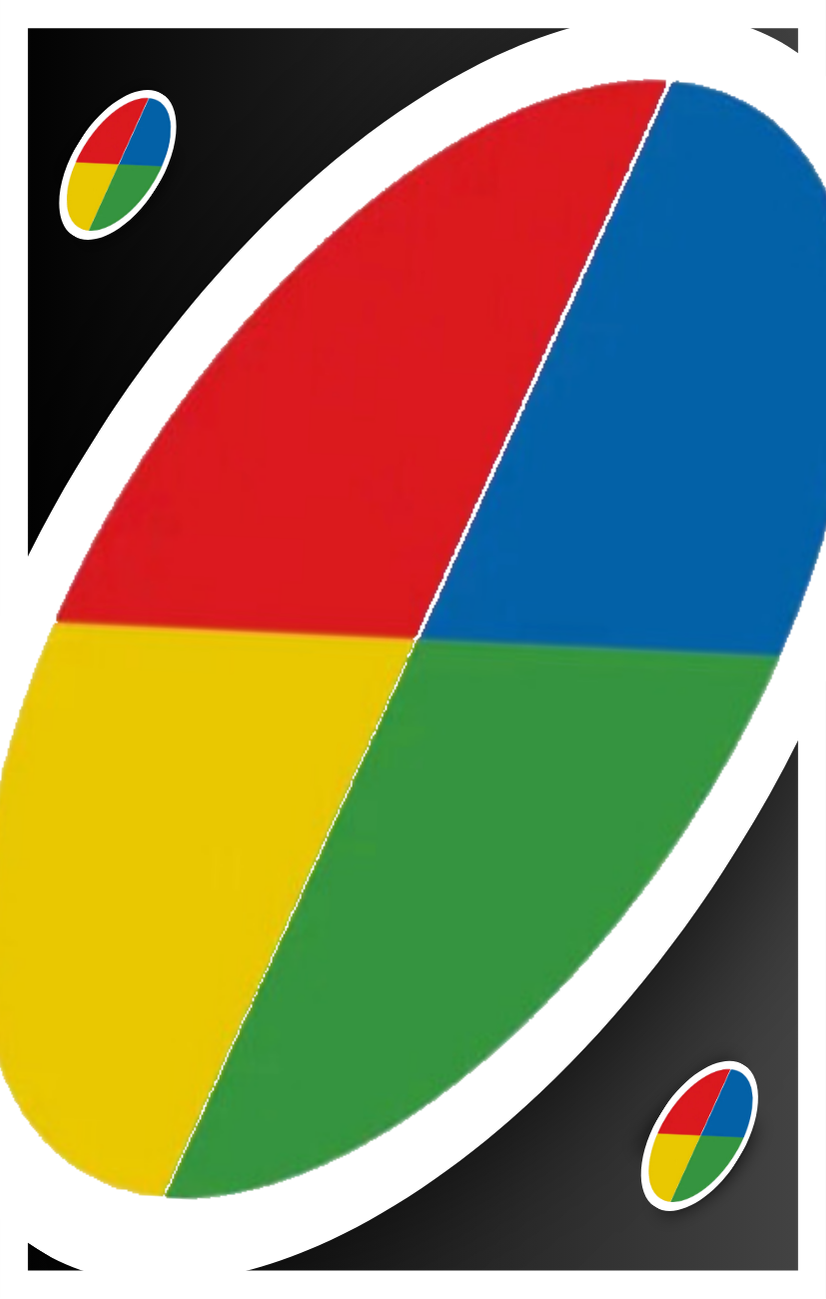
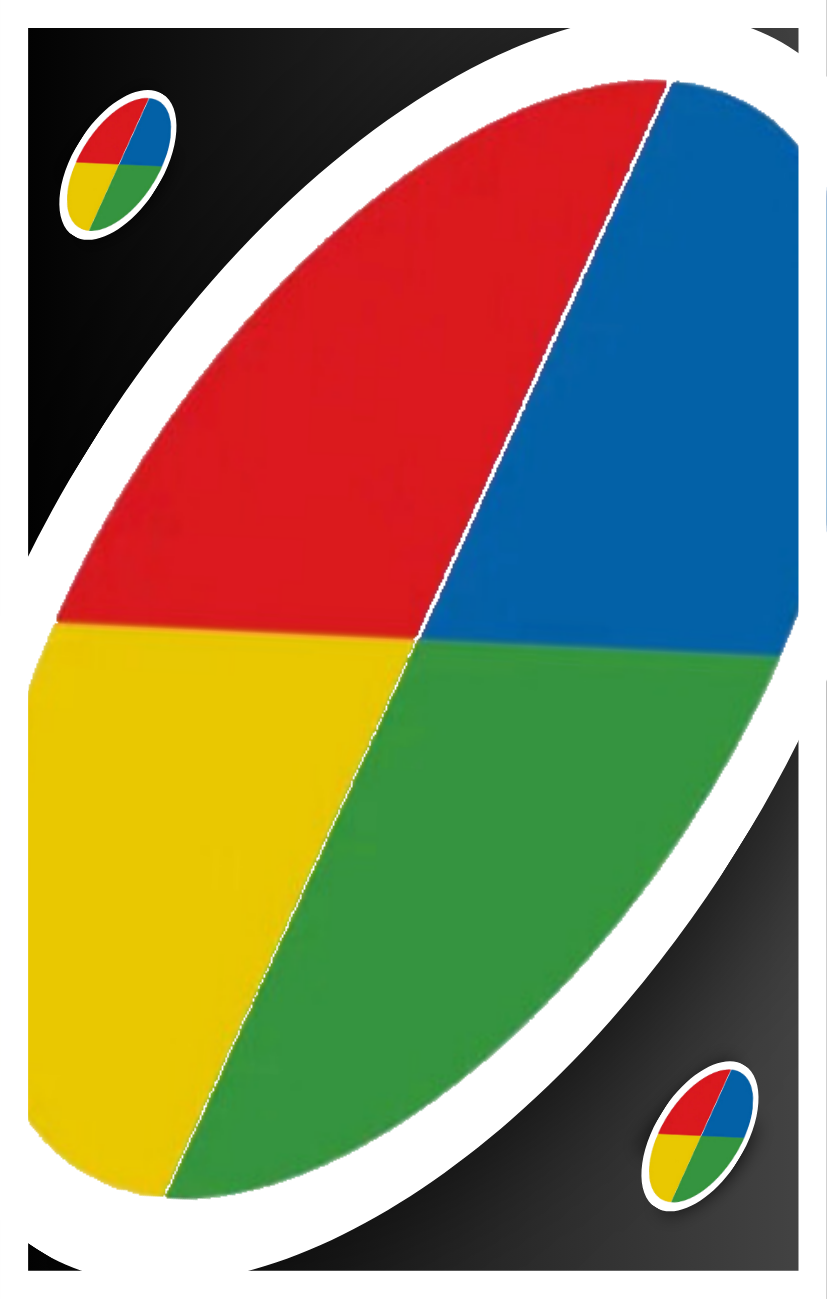
Uno: kartu Wild +8 (2) & Spill (8), + cover meja
- Wild +8: keluarga plus (bisa stack sama +2/+4), korban tarik +8
- Spill (2/warna, 8 total): semua kartu keliatan 10 detik; server re-broadcast pas kelar
- Deck jadi 118; wire gambar wild8, spill, cover meja (meja.png), wild normal revisi
- Kartu tangan urut: spill masuk grup aksi, wild8 grup wild

Teruji: engine rules/fullgame (118 kartu) + efek wild8/spill.

diff --git a/src/games/uno.js b/src/games/uno.js
@@ -28,7 +28,8 @@ function buildDeck() {
       deck.push({ kind: "num", color, value: v });
       deck.push({ kind: "num", color, value: v });
     }
-    for (const kind of ["skip", "reverse", "draw2"]) {
+    // 2 tiap: skip, reverse, +2, dan SPILL (kartu spill: 2/warna = 8 total)
+    for (const kind of ["skip", "reverse", "draw2", "spill"]) {
       deck.push({ kind, color });
       deck.push({ kind, color });
     }
@@ -37,7 +38,8 @@ function buildDeck() {
     deck.push({ kind: "wild" });
     deck.push({ kind: "wild4" });
   }
-  return deck; // 108
+  for (let i = 0; i < 2; i++) deck.push({ kind: "wild8" }); // wild +8 (2 biji)
+  return deck; // 118
 }
 
 function shuffle(arr) {
@@ -49,7 +51,8 @@ function shuffle(arr) {
   return a;
 }
 
-function isPlus(card) { return card.kind === "draw2" || card.kind === "wild4"; }
+function isPlus(card) { return card.kind === "draw2" || card.kind === "wild4" || card.kind === "wild8"; }
+function isWildKind(card) { return card.kind === "wild" || card.kind === "wild4" || card.kind === "wild8"; }
 
 // "ikon" kartu — buat nentuin kartu mana yang boleh di-stack bareng.
 //  angka  → "num:<value>"
@@ -65,7 +68,7 @@ function cardGroup(card) {
 
 // Boleh nggak `card` jadi kartu PALING BAWAH di atas `top` (warna aktif `currentColor`)?
 function matches(card, top, currentColor) {
-  if (card.kind === "wild" || card.kind === "wild4") return true;
+  if (isWildKind(card)) return true;
   if (card.color === currentColor) return true;
   if (card.kind === "num" && top.kind === "num" && card.value === top.value) return true;
   if (card.kind !== "num" && card.kind === top.kind) return true;
@@ -117,8 +120,10 @@ function describe(card) {
   if (card.kind === "skip") return `skip ${c}`.trim();
   if (card.kind === "reverse") return `reverse ${c}`.trim();
   if (card.kind === "draw2") return `+2 ${c}`.trim();
+  if (card.kind === "spill") return `spill ${c}`.trim();
   if (card.kind === "wild") return `wild ${c}`.trim();
   if (card.kind === "wild4") return `+4 ${c}`.trim();
+  if (card.kind === "wild8") return `+8 ${c}`.trim();
   return "kartu";
 }
 
@@ -147,6 +152,7 @@ module.exports = {
       direction: 1,
       drawnThisTurn: false,
       pendingDraw: 0, // total tarik yang lagi "gantung" dari tumpukan plus
+      spillUntil: 0,  // timestamp: sampai kapan semua kartu ke-spill (spill card)
       winner: null,   // juara pertama (kartu habis duluan)
       finished: [],   // urutan pemain yang udah habis kartunya (ranking juara)
       over: false,    // game beneran selesai (tersisa ≤1 pemain aktif)
@@ -176,7 +182,7 @@ module.exports = {
       if (cards.some((c) => !c)) return false;
       if (!cards.every(isPlus)) return false; // wajib plus semua
       const topCard = cards[cards.length - 1];
-      if (topCard.kind === "wild4" && !COLORS.includes(move.chosenColor)) return false;
+      if ((topCard.kind === "wild4" || topCard.kind === "wild8") && !COLORS.includes(move.chosenColor)) return false;
       return true;
     }
 
@@ -196,7 +202,7 @@ module.exports = {
     if (!matches(cards[0], top, state.currentColor)) return false; // bawah harus sah
 
     const topCard = cards[cards.length - 1];
-    if ((topCard.kind === "wild" || topCard.kind === "wild4") && !COLORS.includes(move.chosenColor)) return false;
+    if (isWildKind(topCard) && !COLORS.includes(move.chosenColor)) return false;
     return true;
   },
 
@@ -239,7 +245,7 @@ module.exports = {
     const idxs = move.cardIndexes.slice();
     const cards = idxs.map((i) => s.hands[pid][i]); // referensi objek di tangan (clone)
     const topCard = cards[cards.length - 1];
-    if (topCard.kind === "wild" || topCard.kind === "wild4") topCard.color = move.chosenColor;
+    if (isWildKind(topCard)) topCard.color = move.chosenColor;
 
     // buang dari tangan (index besar dulu biar aman)
     for (const i of idxs.slice().sort((a, b) => b - a)) s.hands[pid].splice(i, 1);
@@ -284,7 +290,7 @@ module.exports = {
 
     // efek kartu (advance otomatis skip yang udah selesai)
     if (group === "plus") {
-      const add = cards.reduce((sum, c) => sum + (c.kind === "wild4" ? 4 : 2), 0);
+      const add = cards.reduce((sum, c) => sum + (c.kind === "wild8" ? 8 : c.kind === "wild4" ? 4 : 2), 0);
       s.pendingDraw += add;
       desc += ` — tarik gantung ${s.pendingDraw}`;
       advance(s, 1);
@@ -295,6 +301,10 @@ module.exports = {
       if (cards.length % 2 === 1) s.direction *= -1;
       advance(s, active.length === 2 && cards.length % 2 === 1 ? 2 : 1);
       desc += " — arah dibalik";
+    } else if (group === "act:spill") {
+      s.spillUntil = Date.now() + 10000; // semua kartu keliatan 10 detik
+      desc += " — 👀 SEMUA kartu ke-spill 10 detik!";
+      advance(s, 1);
     } else {
       advance(s, 1); // angka / wild biasa
     }
@@ -356,6 +366,7 @@ module.exports = {
     const hand = state.hands[playerId] || [];
     const meIsCurrent = state.order[state.currentTurn] === playerId;
     const pending = state.pendingDraw;
+    const spillActive = !!(state.spillUntil && Date.now() < state.spillUntil);
 
     // grup mana yang punya ≥1 kartu yang sah jadi kartu bawah → semua kartu grup itu "playable"
     const groupCanStart = {};
@@ -382,6 +393,8 @@ module.exports = {
           count: state.hands[id].length,
           isTurn: state.order[state.currentTurn] === id,
           done: state.finished.includes(id),
+          // pas spill aktif, kartu lawan keliatan (cuma data tampilan)
+          revealHand: spillActive ? state.hands[id].map((c) => ({ kind: c.kind, color: c.color, value: c.value })) : null,
         })),
       topCard: top,
       recentDiscard: state.discardPile.slice(-5), // 2–5 kartu terakhir buat tumpukan berantakan
@@ -393,6 +406,8 @@ module.exports = {
       pendingDraw: pending,
       mustRespondPlus: meIsCurrent && pending > 0, // giliranku & ada tumpukan plus
       youId: playerId,
+      spillActive,
+      spillUntil: spillActive ? state.spillUntil : null,
       lastEvent: state.lastEvent,
       unoNames: state.order
         .filter((id) => state.hands[id] && state.hands[id].length === 1)

diff --git a/public/client.js b/public/client.js
@@ -407,7 +407,7 @@ function renderLudo(view) {
 // ---------------------------------------------------------------------------
 // RENDER: UNO
 // ---------------------------------------------------------------------------
-const UNO_LABEL = { skip: "⦸", reverse: "⇄", draw2: "+2", wild: "★", wild4: "+4" };
+const UNO_LABEL = { skip: "⦸", reverse: "⇄", draw2: "+2", wild: "★", wild4: "+4", wild8: "+8", spill: "👀" };
 const COLOR_ID = { red: "Merah", yellow: "Kuning", green: "Hijau", blue: "Biru" };
 const DIR_COLOR = {
   red: "rgba(228,72,59,0.42)", yellow: "rgba(242,180,0,0.48)",
@@ -421,8 +421,10 @@ function cardRank(card) {
   if (card.kind === "skip") return [1, 0, color];
   if (card.kind === "reverse") return [1, 1, color];
   if (card.kind === "draw2") return [1, 2, color];
+  if (card.kind === "spill") return [1, 3, color];
   if (card.kind === "wild") return [2, 0, 0];
   if (card.kind === "wild4") return [2, 1, 0];
+  if (card.kind === "wild8") return [2, 2, 0];
   return [3, 0, 0];
 }
 function cmpCard(a, b) {
@@ -440,13 +442,15 @@ const COLOR_PREFIX = { red: "m", yellow: "k", green: "h", blue: "b" };
 function cardImageUrl(card) {
   if (card.kind === "wild") return "assets/cards/wild/" + encodeURIComponent("wild normal") + ".png";
   if (card.kind === "wild4") return "assets/cards/wild/" + encodeURIComponent("w +4") + ".png";
+  if (card.kind === "wild8") return "assets/cards/wild/" + encodeURIComponent("w +8") + ".png";
   if (!ASSET_COLORS.has(card.color)) return null;
   const p = COLOR_PREFIX[card.color];
   const v =
     card.kind === "num" ? String(card.value) :
     card.kind === "draw2" ? "+2" :
     card.kind === "skip" ? "skip" :
-    card.kind === "reverse" ? "reverse" : null;
+    card.kind === "reverse" ? "reverse" :
+    card.kind === "spill" ? "spill" : null;
   if (v === null) return null;
   // nama file ada spasi & "+", jadi di-encode
   return "assets/cards/" + card.color + "/" + encodeURIComponent(p + " " + v) + ".png";
@@ -526,6 +530,14 @@ function renderUno(view) {
   const cw = Math.max(28, Math.min(66, Math.round(Math.min(window.innerHeight * 0.11, window.innerWidth * 0.08))));
   table.style.setProperty("--cw", cw + "px");
 
+  // banner pas kartu SPILL aktif (semua kartu keliatan)
+  if (g.spillActive) {
+    const sb = document.createElement("div");
+    sb.className = "uno-spill-banner";
+    sb.textContent = "👀 SPILL! Semua kartu keliatan";
+    table.appendChild(sb);
+  }
+
   // arah putaran (placeholder)
   const dir = document.createElement("div");
   dir.className = "uno-dir " + (g.direction === 1 ? "cw" : "ccw");
@@ -591,21 +603,24 @@ function renderUno(view) {
     // kipas punggung = jumlah kartu asli lawan (kalau udah selesai, gak usah)
     const fan = document.createElement("div");
     fan.className = "seat-fan";
-    if (!o.done) {
-      const count = Math.min(o.count, 25); // batas aman DOM
-      const cardW = Math.round(cw * 0.52), areaW = Math.round(cw * 1.9);
-      const step = count > 1 ? Math.min(cardW - 5, (areaW - cardW) / (count - 1)) : 0;
-      const arc = Math.min(58, count * 6); // total derajat kipas
-      for (let i = 0; i < count; i++) {
-        const b = unoBackEl("mini");
-        const ang = count > 1 ? (i - (count - 1) / 2) * (arc / (count - 1)) : 0;
-        if (i > 0) b.style.marginLeft = step - cardW + "px";
-        b.style.transform = `rotate(${ang}deg) translateY(${Math.abs(ang) * 0.3}px)`;
-        b.style.zIndex = i;
-        fan.appendChild(b);
-      }
-    } else {
+    if (o.done) {
       fan.innerHTML = '<span class="seat-medal">✅</span>';
+    } else {
+      // pas spill aktif → kartu lawan keliatan (face-up), selain itu punggung
+      const revealed = o.revealHand ? o.revealHand.slice(0, 20) : null;
+      const shown = revealed ? revealed.length : Math.min(o.count, 25);
+      const cardW = Math.round(cw * 0.52), areaW = Math.round(cw * 1.9);
+      const step = shown > 1 ? Math.min(cardW - 5, (areaW - cardW) / (shown - 1)) : 0;
+      const arc = Math.min(58, shown * 6);
+      for (let i = 0; i < shown; i++) {
+        const el = revealed ? unoCardEl(revealed[i], {}) : unoBackEl("mini");
+        if (revealed) el.classList.add("reveal-mini");
+        const ang = shown > 1 ? (i - (shown - 1) / 2) * (arc / (shown - 1)) : 0;
+        if (i > 0) el.style.marginLeft = step - cardW + "px";
+        el.style.transform = `rotate(${ang}deg) translateY(${Math.abs(ang) * 0.3}px)`;
+        el.style.zIndex = i;
+        fan.appendChild(el);
+      }
     }
     seat.appendChild(fan);
 
@@ -899,7 +914,7 @@ function playCards(indexes, topCard) {
     socket.emit("playMove", { roomId: currentRoom, move });
     unoSel = [];
   };
-  if (topCard.kind === "wild" || topCard.kind === "wild4") showColorPicker(send);
+  if (topCard.kind === "wild" || topCard.kind === "wild4" || topCard.kind === "wild8") showColorPicker(send);
   else send();
 }
 

diff --git a/public/style.css b/public/style.css
@@ -180,10 +180,11 @@ button.ghost:hover { background: rgba(91, 147, 255, 0.08); }
   margin: 0 auto;
   border-radius: 26px;
   background:
+    url("assets/cards/meja.png") center/cover no-repeat,
     radial-gradient(ellipse 56% 50% at 50% 46%, #3b4570 0%, #263056 45%, transparent 72%),
     radial-gradient(ellipse at 50% 50%, #1b2138, #10152a);
   border: 1px solid var(--line);
-  box-shadow: inset 0 0 120px rgba(0, 0, 0, 0.55), var(--shadow);
+  box-shadow: inset 0 0 100px rgba(0, 0, 0, 0.5), var(--shadow);
 }
 
 /* arah putaran (placeholder — nanti bisa diganti aset PNG panah) */
@@ -290,6 +291,16 @@ button.ghost:hover { background: rgba(91, 147, 255, 0.08); }
 .uno-back.deck.playable { cursor: pointer; outline: 2px solid var(--ok); outline-offset: 2px; }
 .uno-back.deck.playable:hover { transform: translateY(-4px); }
 .uno-back.mini { width: calc(var(--cw, 66px) * 0.52); border-width: 1.5px; margin: 0; transform-origin: bottom center; }
+/* kartu lawan yang keliatan pas spill */
+.uno-card.reveal-mini { width: calc(var(--cw, 66px) * 0.52); border-width: 1.5px; transform-origin: bottom center; box-shadow: 0 1px 4px rgba(0, 0, 0, 0.5); }
+
+/* banner spill */
+.uno-spill-banner {
+  position: absolute; top: 6px; left: 50%; transform: translateX(-50%); z-index: 20;
+  background: linear-gradient(135deg, #7a3ff0, #5b93ff); color: #fff; font-weight: 800;
+  font-size: 0.85rem; padding: 4px 14px; border-radius: 999px; white-space: nowrap;
+  box-shadow: 0 4px 14px rgba(0, 0, 0, 0.5); animation: unoPulse 1s ease-in-out infinite;
+}
 
 /* kartu terbang pas cangkul (draw) */
 .fly-card {

diff --git a/server.js b/server.js
@@ -27,6 +27,7 @@ const GRACE_MS = 30_000; // grace period 30 detik sebelum pemain dianggap keluar
 const disconnectTimers = new Map(); // socketId -> timeout, buat batalin kalau reconnect
 const TURN_MS = Number(process.env.TURN_MS) || 60_000; // batas waktu per giliran (auto-skip kalau lewat)
 const turnTimers = new Map(); // roomId -> timeout
+const spillTimers = new Map(); // roomId -> timeout (re-broadcast pas spill kelar)
 
 // ---------------------------------------------------------------------------
 // Bikin VIEW yang dikirim ke satu pemain. Tiap pemain bisa beda view-nya
@@ -81,6 +82,19 @@ function broadcastRoom(room) {
 function clearTurnTimer(roomId) {
   const t = turnTimers.get(roomId);
   if (t) { clearTimeout(t); turnTimers.delete(roomId); }
+}
+
+// pas ada kartu spill dimainin, re-broadcast pas 10 detiknya kelar biar kartu ke-hide lagi
+function scheduleSpillEnd(room) {
+  const prev = spillTimers.get(room.id);
+  if (prev) clearTimeout(prev);
+  const until = room.state && room.state.spillUntil;
+  if (!until || until <= Date.now()) return;
+  spillTimers.set(room.id, setTimeout(() => {
+    spillTimers.delete(room.id);
+    const r = roomStore.getRoom(room.id);
+    if (r) broadcastRoom(r);
+  }, until - Date.now() + 60));
 }
 
 function scheduleTurnTimer(room) {
@@ -166,6 +180,7 @@ io.on("connection", (socket) => {
     }
     if (room.status === "playing") scheduleTurnTimer(room);
     else clearTurnTimer(room.id);
+    scheduleSpillEnd(room);
     broadcastRoom(room);
   });
 
